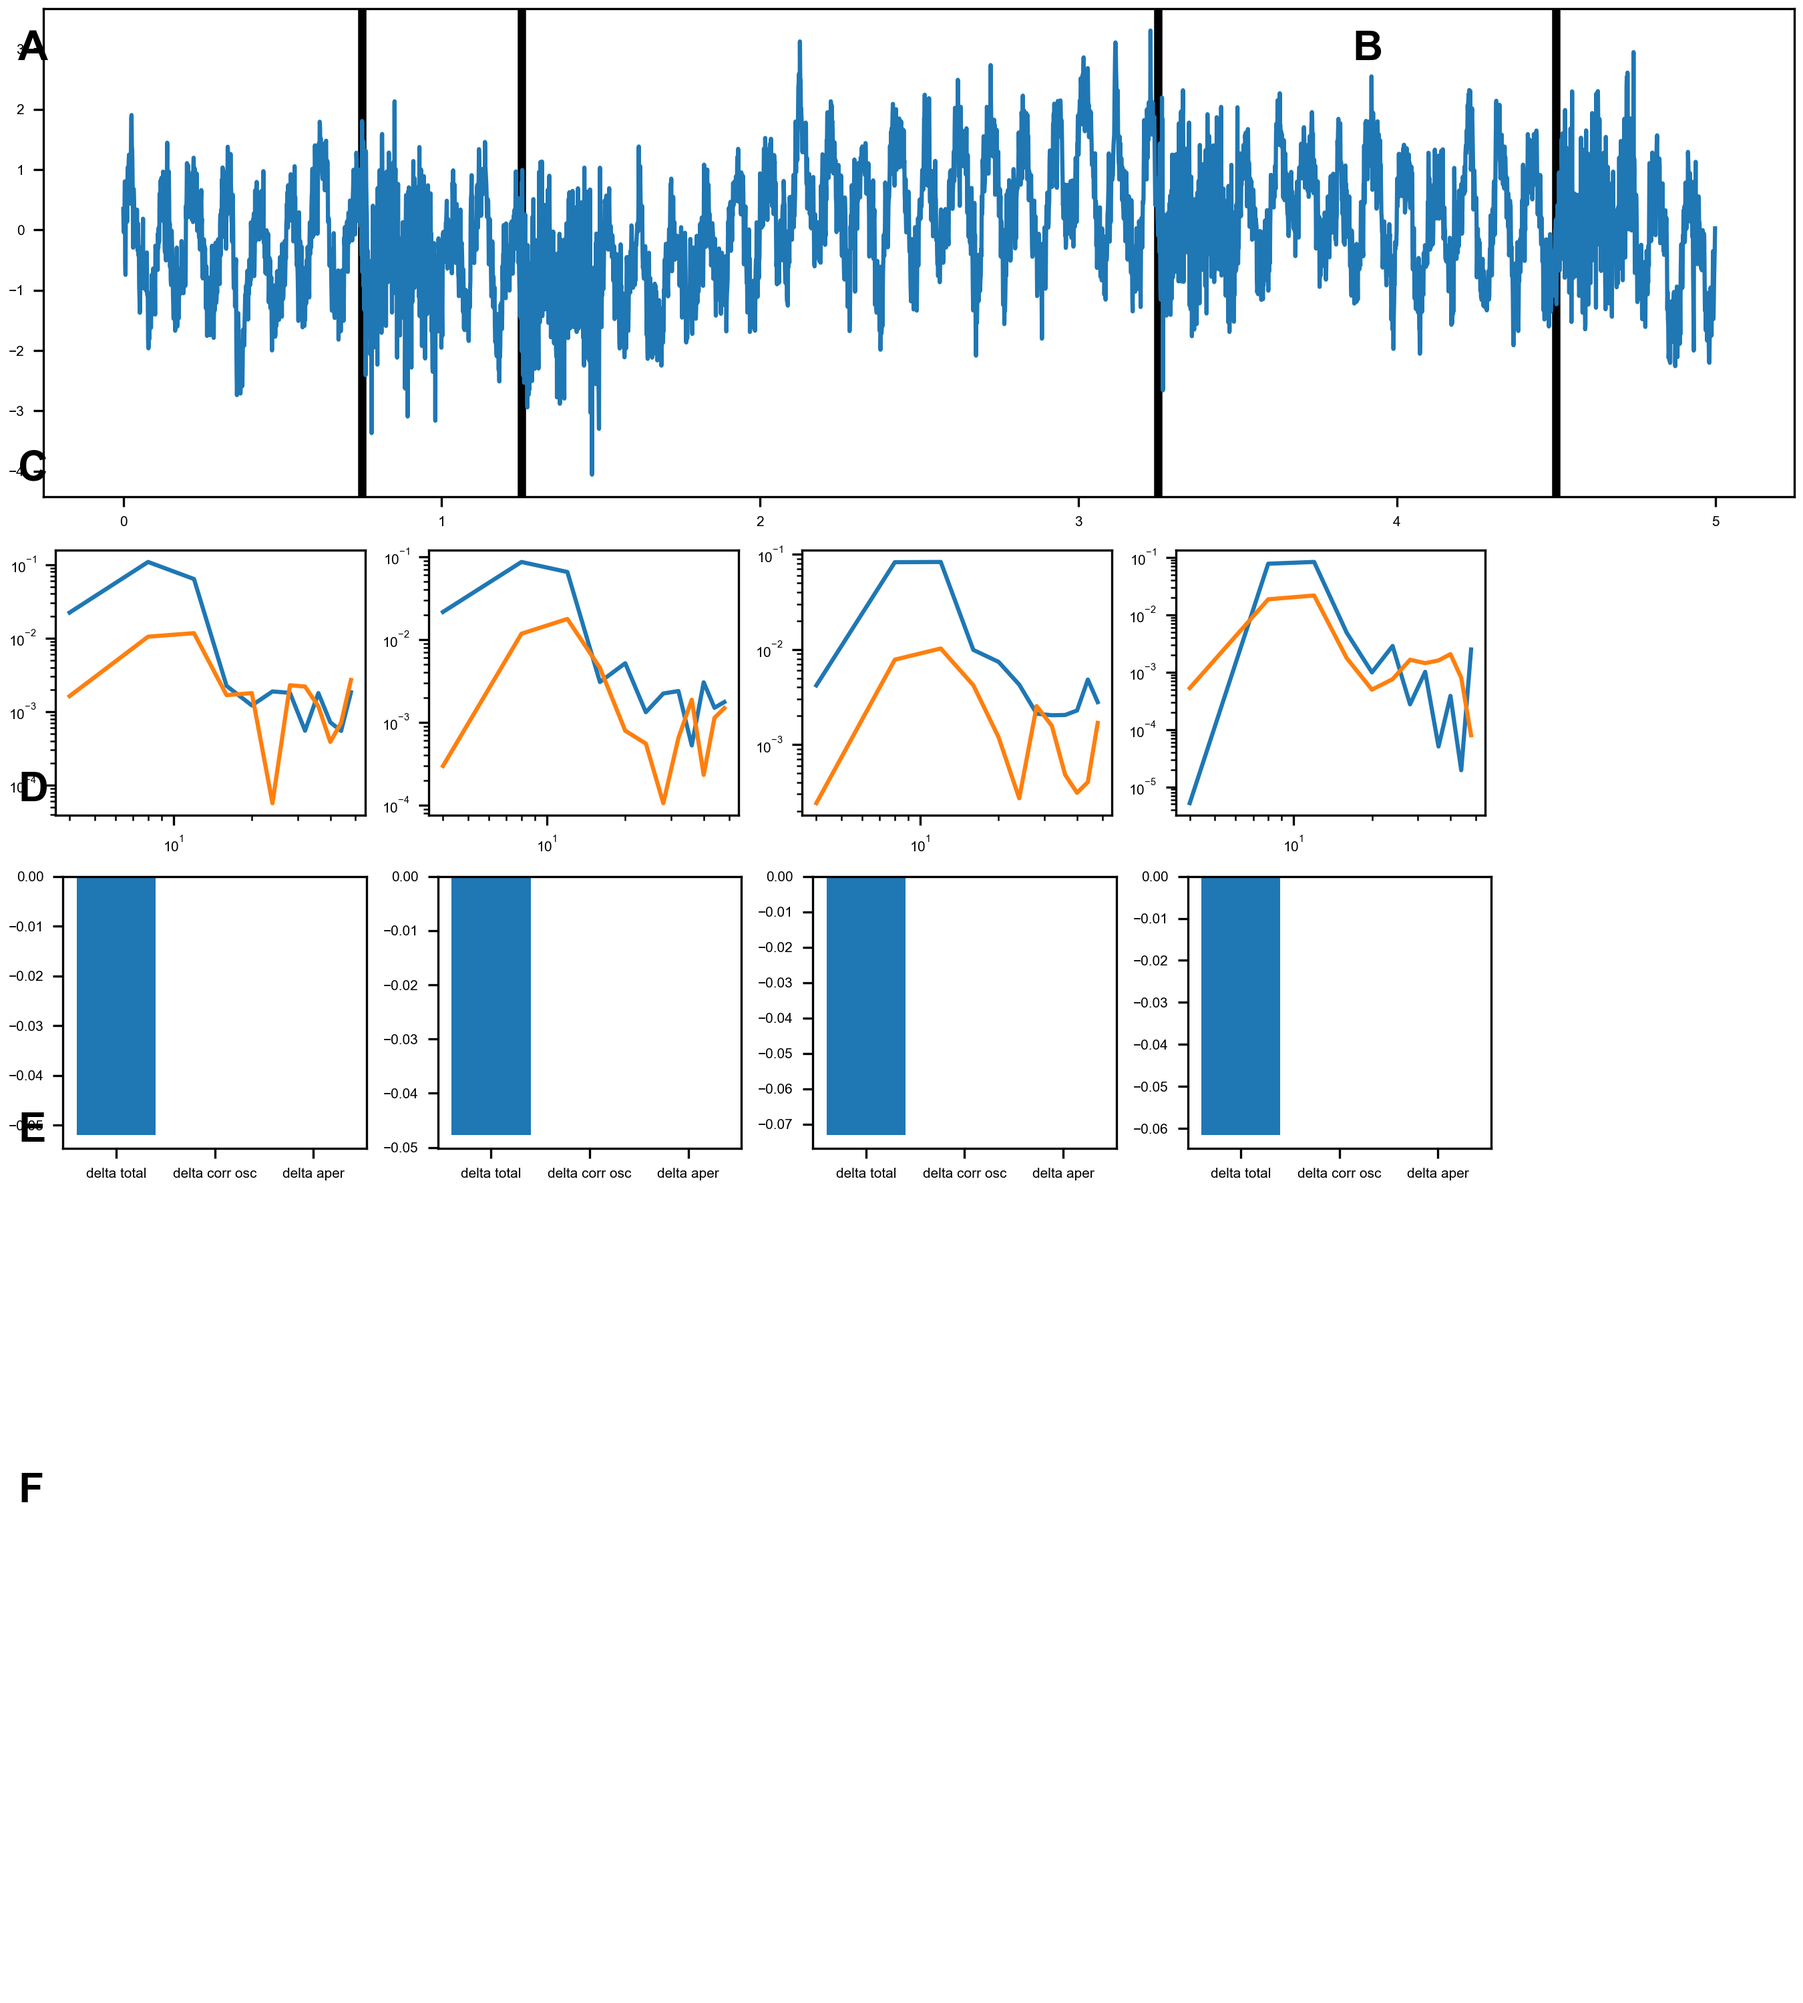
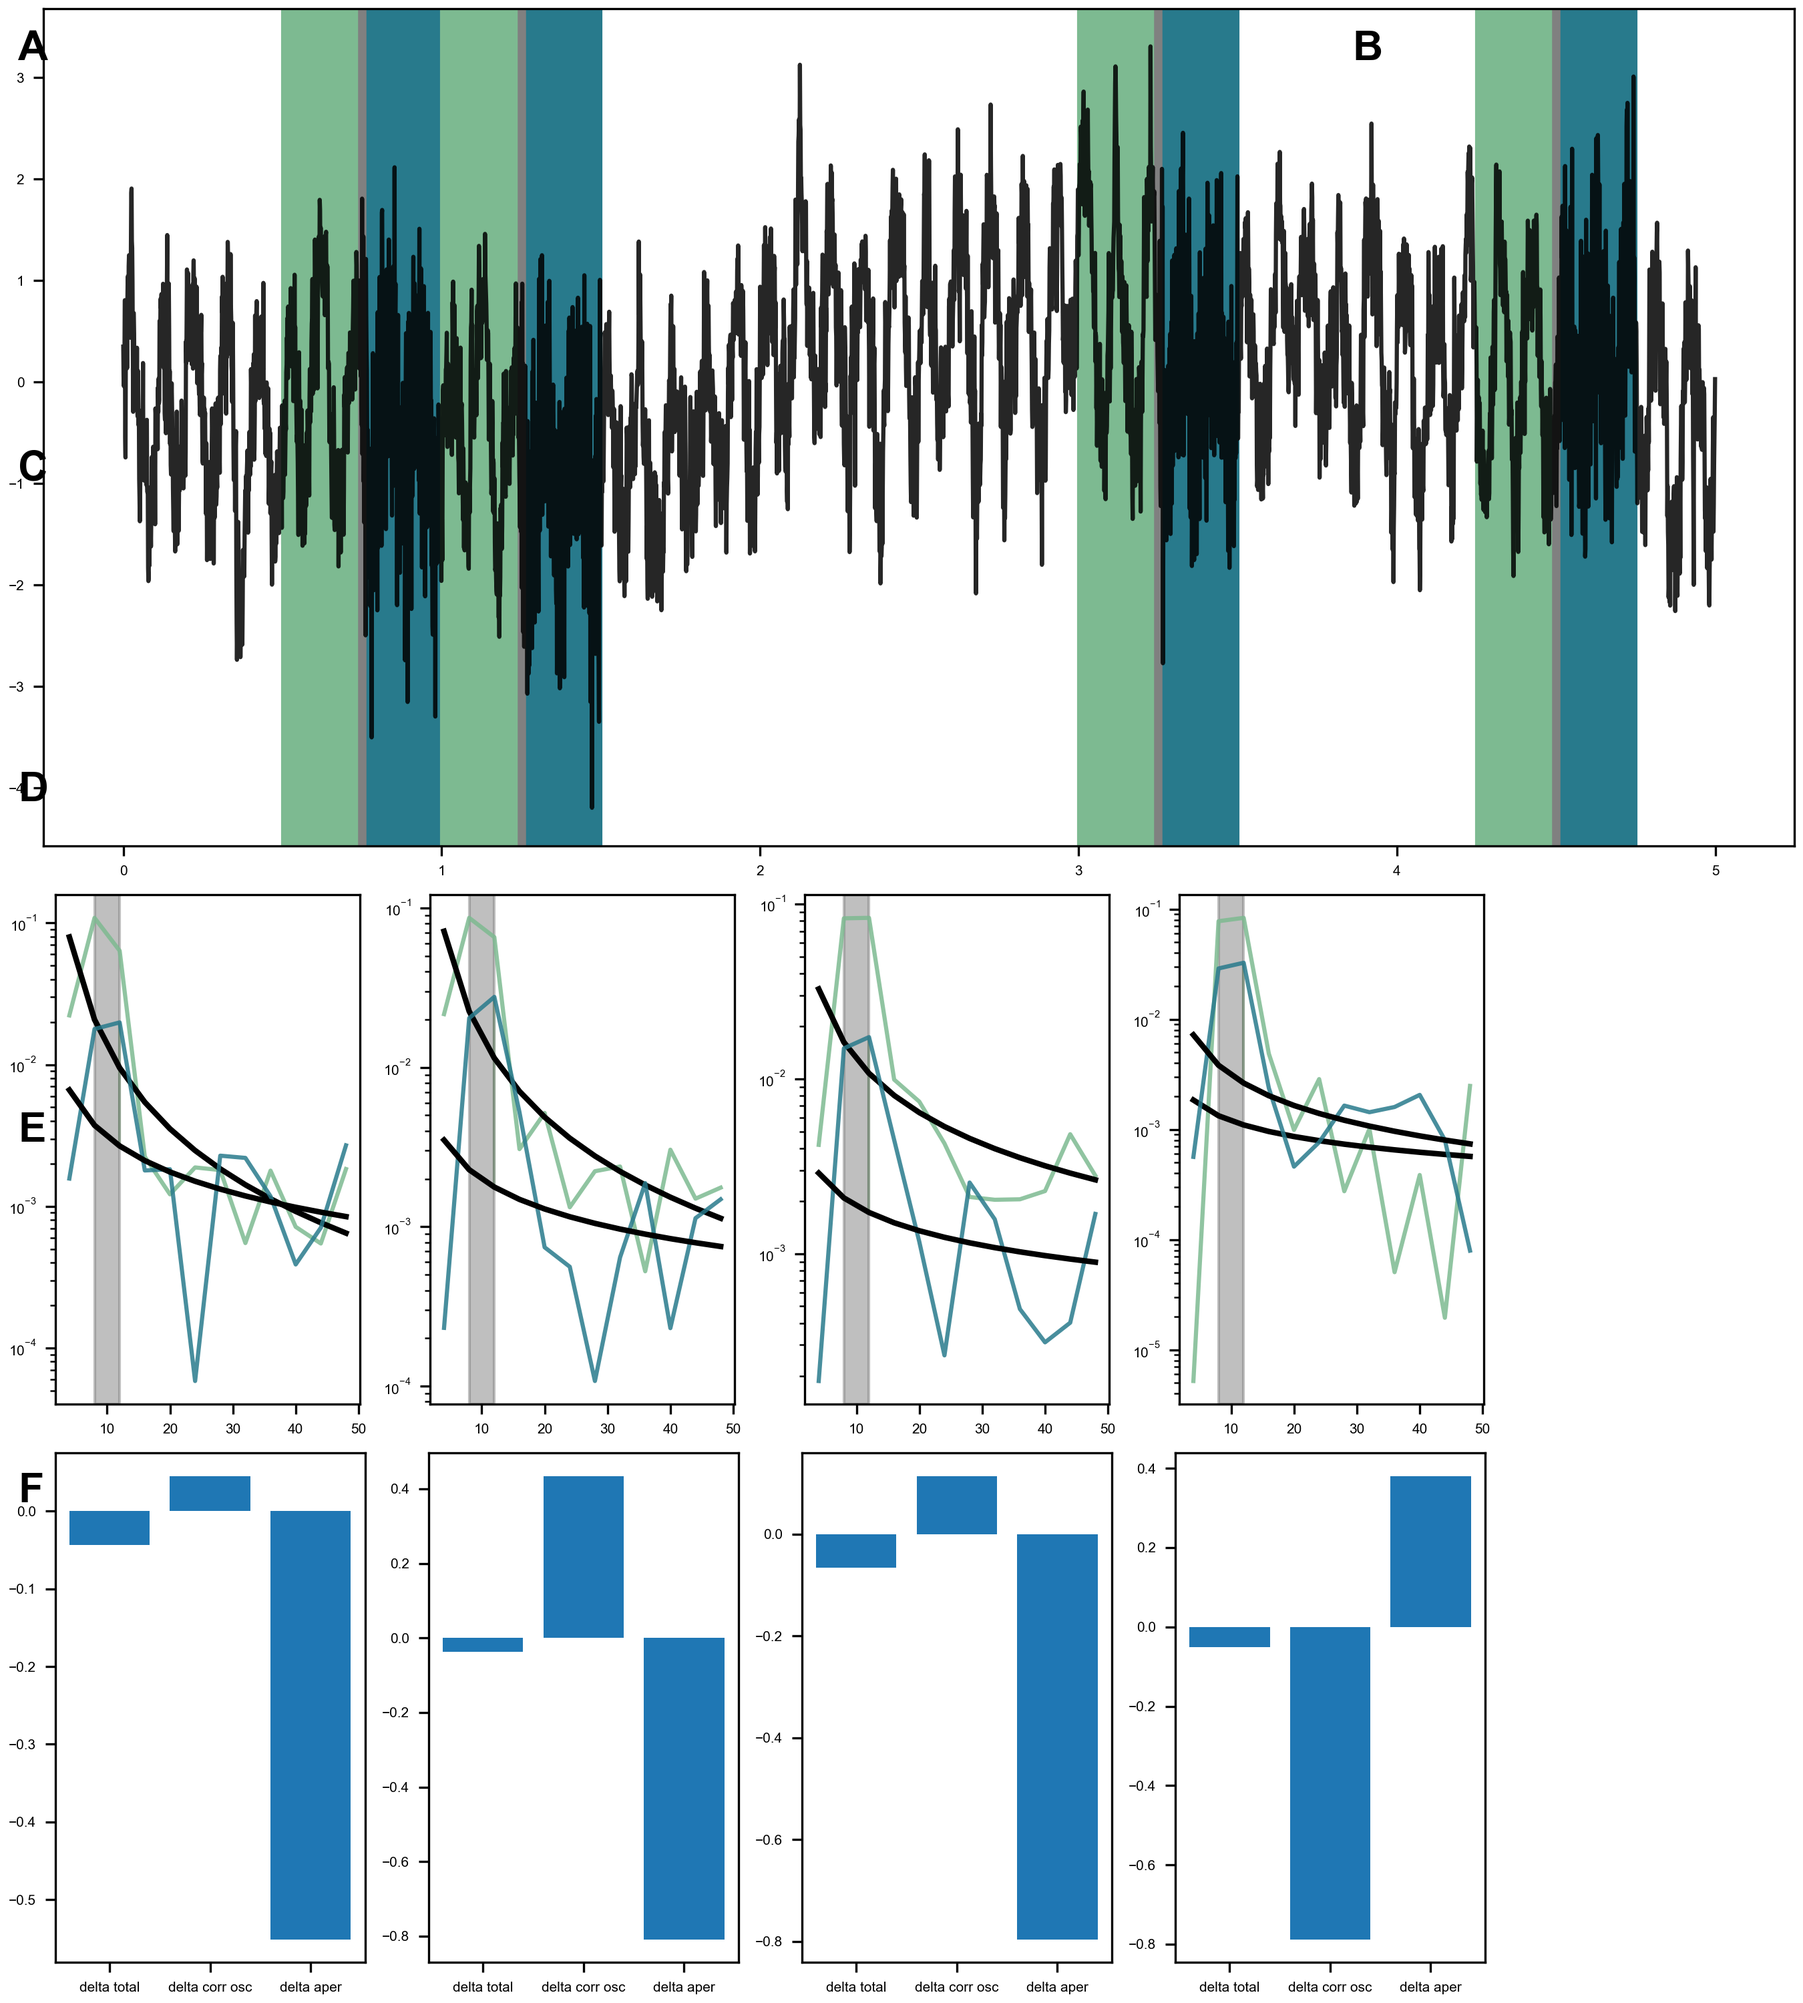
editing pedagogical fig

diff --git a/scripts/intro_fig.py b/scripts/intro_fig.py
@@ -25,7 +25,8 @@ import seaborn as sns
 from neurodsp.sim import (
     sim_synaptic_current,
     sim_knee,
-    sim_combined
+    sim_combined,
+    sim_oscillation
 )
 from neurodsp.spectral import compute_spectrum
 
@@ -70,6 +71,9 @@ FREQ_BANDWIDTH = 7 # frequency bandwidth (Hz)
 
 # set random seed
 np.random.seed(39)
+colors_pal = (sns.color_palette('crest'))
+prestim_color = colors_pal[0]
+poststim_color = colors_pal[3]
 
 # MAIN #########################################################################
 
@@ -77,8 +81,8 @@ def main():
 
     # create figure and gridspec
     fig = plt.figure(figsize=FIGSIZE, constrained_layout=True)
-    gs = gridspec.GridSpec(figure=fig, ncols=1, nrows=5, 
-                           height_ratios=[0.75, 0.5, 0.5, 0.5, 0.75])
+    gs = gridspec.GridSpec(figure=fig, ncols=1, nrows=3, 
+                           height_ratios=[0.75, 0.5, 0.5])
 
     # # Add variable freq range plots
     # ax_e = gridspec.GridSpecFromSubplotSpec(1, 4, subplot_spec=gs[0],
@@ -92,8 +96,11 @@ def main():
     event_win = 0.25
     fs = 1000
     sig, times = generate_modulated_signal(events, event_win, fs)
-    for ev in events: ax_a.axvline(ev, color='k', linewidth=3)
-    ax_a.plot(times, sig)
+    for ev in events: 
+        ax_a.axvline(ev, color='grey', linewidth=3)
+        ax_a.axvspan(xmin = ev-event_win, xmax=ev,  color = prestim_color)
+        ax_a.axvspan(xmin = ev, xmax=ev+event_win, color = poststim_color)
+    ax_a.plot(times, sig, color='k', alpha=0.85)
 
     # Compute and plot TFR
     # ax_b = fig.add_subplot(gs[2])
@@ -157,6 +164,7 @@ def generate_modulated_signal(events, event_win, fs):
         "sim_oscillation": [{"freq": 10}],
     }
     sig = sim_combined(n_seconds=5, fs=fs, components=sim_components)
+    osc_sig = (sim_oscillation(n_seconds=5, fs=fs, freq=10)*0.10)
 
     times = create_times(n_seconds=5, fs=fs)
 
@@ -166,7 +174,9 @@ def generate_modulated_signal(events, event_win, fs):
         print(ev_idx, ev_idx_end)
 
         mod_sig = sig[ev_idx : ev_idx_end]
+        osc_sig_add = osc_sig[ev_idx : ev_idx_end]
         rotated = rotate_timeseries(sig=mod_sig, fs=fs, delta_exp=-1, f_rotation=40)
+        rotated = rotated + osc_sig_add
         sig[ev_idx : ev_idx_end ] = rotated
 
     return sig, times
@@ -181,24 +191,36 @@ def plot_prestim_poststim_psd(sig, ev_idx, event_win, fs, axs):
     pows_post = pows_post[(freqs > 0.5) & (freqs < 50)]
     freqs = freqs[(freqs > 0.5) & (freqs < 50)]
 
-    psd_ax.plot(freqs,pows_pre)
-    psd_ax.plot(freqs,pows_post)
-    psd_ax.set_xscale('log')
-    psd_ax.set_yscale('log')
-
-    pre_total_power = np.mean(pows_pre[(freqs > 8) & (freqs <=12)])
-    pst_total_power = np.mean(pows_post[(freqs > 8) & (freqs <=12)])
+    alpha_mask = (freqs > 8) & (freqs <=12)
+    pre_total_power = np.mean(pows_pre[alpha_mask])
+    pst_total_power = np.mean(pows_post[alpha_mask])
     delta_total = (pst_total_power - pre_total_power)
 
     specpar_pre = fooof.FOOOF(**SPECPARAM_SETTINGS)
     specpar_pre.fit(freqs=freqs, power_spectrum=pows_pre, freq_range=(0.5, 50))    
     specpar_pst = fooof.FOOOF(**SPECPARAM_SETTINGS)
-    specpar_pst.fit(freqs=freqs, power_spectrum=pows_pre, freq_range=(0.5, 50))
+    specpar_pst.fit(freqs=freqs, power_spectrum=pows_post, freq_range=(0.5, 50))
 
     flat_spec_delta = ((specpar_pst._spectrum_flat) - (specpar_pre._spectrum_flat))
-    flat_spec_delta = np.mean(flat_spec_delta[(freqs > 8) & (freqs <=12)])
-    ap_delta = ((specpar_pst._ap_fit) - (specpar_pst._ap_fit))
-    ap_delta = np.mean(ap_delta[(freqs > 8) & (freqs <=12)])
+    flat_spec_delta = np.mean(flat_spec_delta[alpha_mask])
+    ap_delta = ((specpar_pst._ap_fit) - (specpar_pre._ap_fit))
+    ap_delta = np.mean(ap_delta[alpha_mask])
+
+    pre_ap_fit = 10**(specpar_pre._ap_fit)
+    pst_ap_fit = 10**(specpar_pst._ap_fit)
+
+    psd_ax.plot(freqs,pows_pre, color = prestim_color, alpha=0.85)
+    psd_ax.plot(freqs,pre_ap_fit, color = 'k', linewidth=2)
+    psd_ax.plot(freqs,pows_post, color = poststim_color, alpha=0.85)
+    psd_ax.plot(freqs,pst_ap_fit, color = 'k', linewidth=2)
+    psd_ax.axvspan(xmin=8, xmax=12, color='grey', alpha=0.5)
+
+    psd_ax.fill_between(
+        freqs[alpha_mask], pows_post[alpha_mask], pst_ap_fit[alpha_mask], where=(pows_post[alpha_mask] != pst_ap_fit[alpha_mask]), 
+        interpolate=True, color="#054907", alpha=0.25
+        )
+    # psd_ax.set_xscale('log')
+    psd_ax.set_yscale('log')
 
     bar_ax.bar(['delta total', 'delta corr osc', 'delta aper'], height=[delta_total, flat_spec_delta, ap_delta])
 
